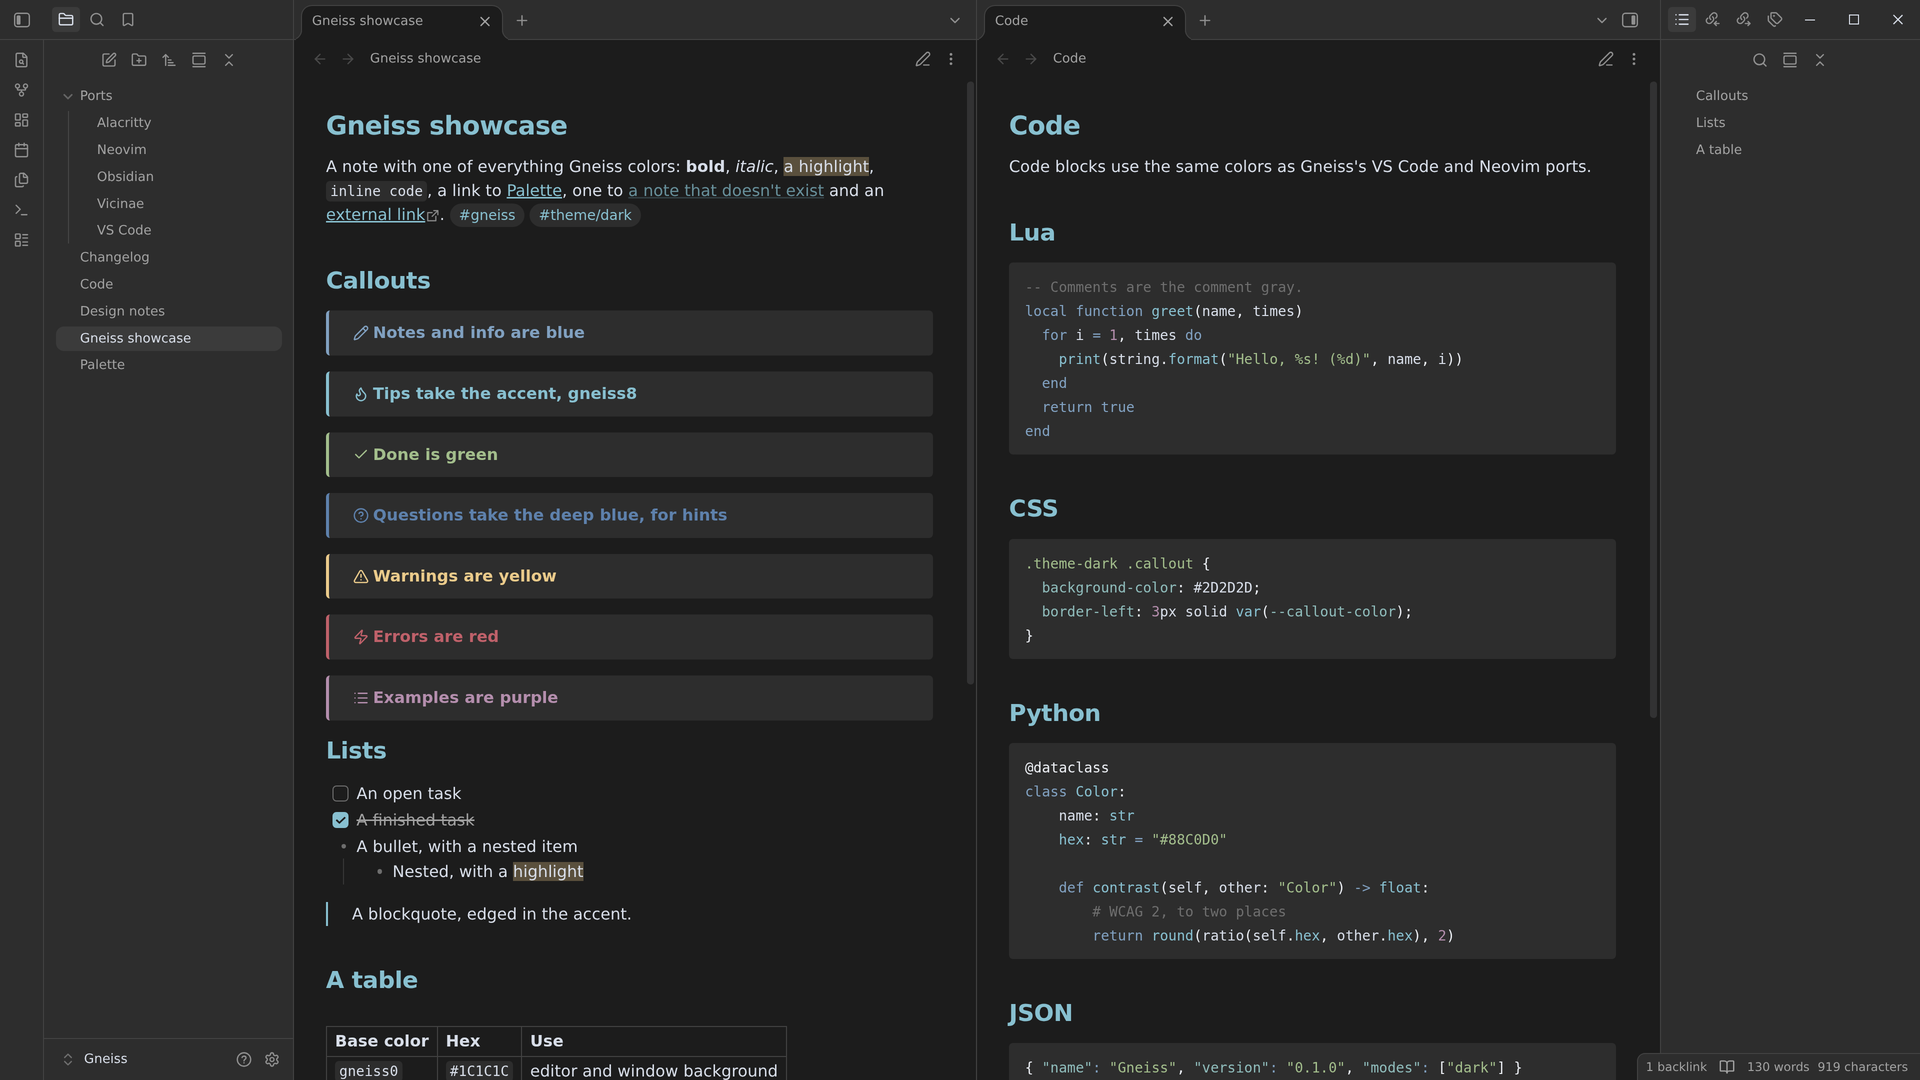
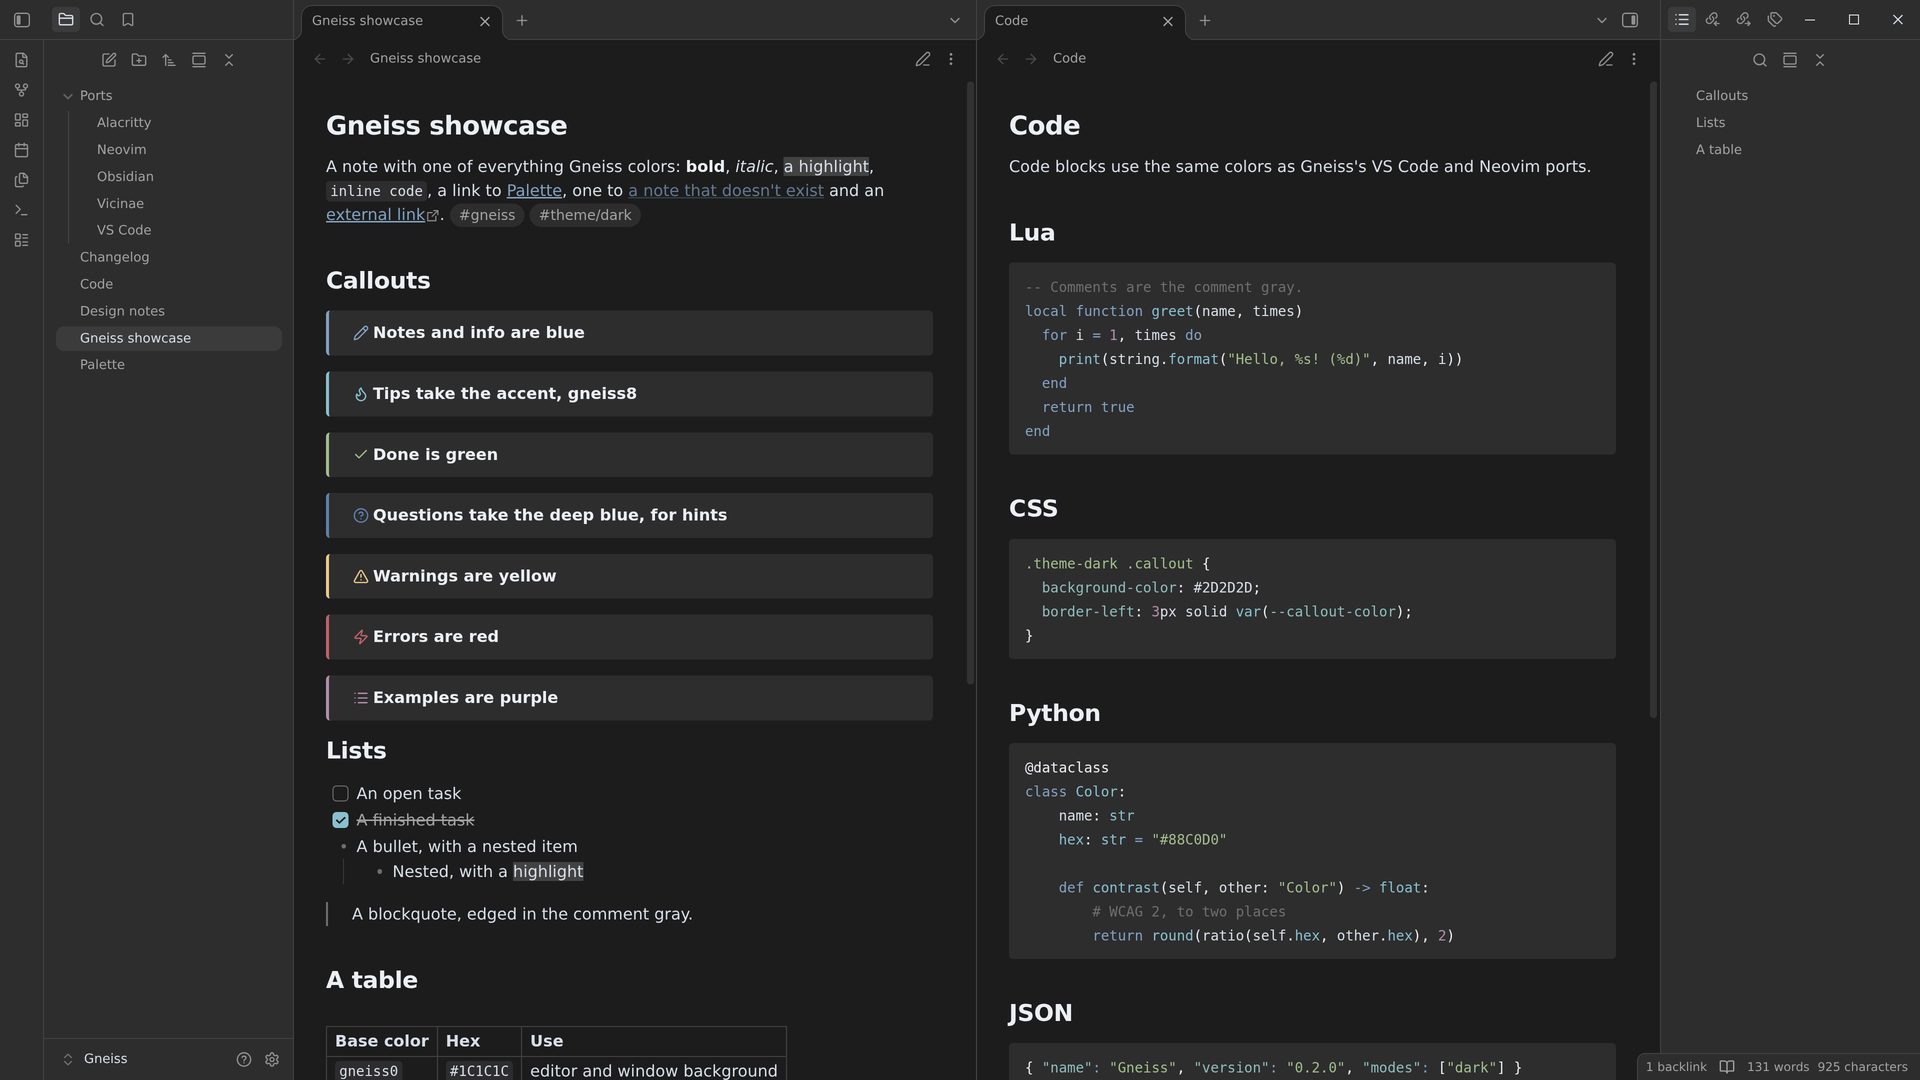
Gneiss 0.2.0 for Obsidian, from gneiss-theme/gneiss at 5fb76d1
The accent is kept for checkboxes, buttons, toggles and sliders: headings
are white, links gneiss9 and tags gray. The screenshots are retaken with it.

diff --git a/theme.css b/theme.css
@@ -10,6 +10,11 @@
  * then the colors Obsidian would otherwise take from its own defaults:
  * borders, selections, status colors, callouts, code and headings. Where
  * Obsidian tints a background with a color, Gneiss uses a neutral gray.
+ *
+ * A note is mostly text, headings and links, so the accent is kept for the
+ * small things you act on: checkboxes, buttons, toggles and sliders.
+ * Headings are white, links the deeper gneiss9 and tags gray, so a note
+ * isn't covered in gneiss8.
  */
 
 .theme-dark {
@@ -53,6 +58,11 @@
   --table-selection: #383838;
   --text-selection: #383838;
 
+  /* ==Highlights== on the border gray, rather than Obsidian's yellow tint,
+     and quotes edged in the comment gray rather than the accent. */
+  --text-highlight-bg: #424242;
+  --blockquote-border-color: #6E6E6E;
+
   /* Text */
   --text-accent: #88C0D0;
   --text-accent-hover: #8FBCBB;
@@ -65,22 +75,38 @@
   --interactive-accent: #88C0D0;
   --interactive-accent-hover: #8FBCBB;
 
-  /* Headings in the accent, as in Gneiss's VS Code theme. */
-  --h1-color: #88C0D0;
-  --h2-color: #88C0D0;
-  --h3-color: #88C0D0;
-  --h4-color: #88C0D0;
-  --h5-color: #88C0D0;
-  --h6-color: #88C0D0;
+  /* Links in gneiss9, a step deeper and calmer than the accent, with the
+     accent on hover. Bold in the brightest white, with the headings. */
+  --link-color: #81A1C1;
+  --link-color-hover: #88C0D0;
+  --link-external-color: #81A1C1;
+  --link-external-color-hover: #88C0D0;
+  --link-unresolved-color: #81A1C1;
+  --bold-color: #ECEFF4;
 
-  /* Tags: accent text on the panel gray. */
+  /* Headings in Gneiss's whites, told apart by size and weight: gneiss6 for
+     h1 and h2 (and the note's title, which takes h1's color), gneiss5 below.
+     Gneiss's editor ports color Markdown headings with the accent, but a
+     note has far more of them than a file of code does. */
+  --h1-color: #ECEFF4;
+  --h2-color: #ECEFF4;
+  --h3-color: #E5E9F0;
+  --h4-color: #E5E9F0;
+  --h5-color: #E5E9F0;
+  --h6-color: #E5E9F0;
+
+  /* Tags: muted gray text on the panel gray, the accent on hover. */
+  --tag-color: #A2A2A2;
+  --tag-color-hover: #88C0D0;
   --tag-background: #2D2D2D;
   --tag-background-hover: #383838;
   --tag-border-color: #424242;
   --tag-border-color-hover: #424242;
 
   /* Callouts. Warnings are yellow and errors red, as everywhere in Gneiss;
-     questions take the deep blue, for hints, rather than orange. */
+     questions take the deep blue, for hints, rather than orange. The color
+     is on the edge and the icon; titles are white. */
+  --callout-title-color: #ECEFF4;
   --callout-default: #81A1C1;
   --callout-info: #81A1C1;
   --callout-todo: #81A1C1;
